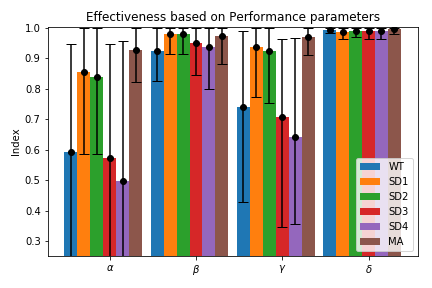
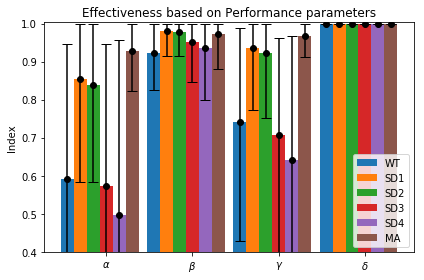
cv.commit

Changed region(s): [[0.0, 0.0286, 0.9811, 0.9714]]

diff --git a/Watershed/MAIN_V3.py b/Watershed/MAIN_V3.py
@@ -45,7 +45,7 @@ K = [Jurgen / 10, 2]  # if random: number of picks in folder, seed
 Name = "Tape_B"
 Tape = "Cropped"  # Large, Cropped, none=smalls
 
-Detail = [["draw", "print", "save"], 250]  # draw/print/save, substep Dt
+Detail = [["", "", "save"], 250]  # draw/print/save, substep Dt
 
 Compute = ["", "", "CP", "PL"]  # WT,CV,CP,"PL"
 
@@ -57,7 +57,7 @@ WT_Parameters = [3, [0.3, 1.5, 1.5], [10, 15, 2], 3, "exact", ""]  # Radius, Rel
 
 CV = [""]  # CROP, TIFtoCSV
 
-CP_Parameters = [0.7, 0.7, "M"]  # cutoff
+CP_Parameters = [0.7, 0.7, ""]  # cutoff
 CP_GroundTruth = "Annotated/Ground Truth/"  # sub-folder
 CP_Algorithms = [  # chosen algos
     "Watershed",

diff --git a/Watershed/FUNCTIONS_V3.py b/Watershed/FUNCTIONS_V3.py
@@ -907,9 +907,10 @@ def PLOT_BAR(Data, Algo, Title, Labels, Range, Save):
     ax.legend()
     fig.tight_layout()
     plt.ylim(Range[0], Range[1])
-
+    
     if "Plot" in Save:
-        plt.savefig((Title + "_BAR"))
+        plt.savefig((Title + "_BAR"),bbox_inches='tight')
+    plt.show()
 
 
 def PLOT_BOX(Data, Algo, Met, Lab, Title, Save):
@@ -963,7 +964,8 @@ def PLOT_BOX(Data, Algo, Met, Lab, Title, Save):
         title = Title + Met[m]
         plt.title(title)
         if "Plot" in Save:
-            plt.savefig(title + "_BOX")
+            plt.savefig(title + "_BOX",bbox_inches='tight')
+        plt.show()
 
         m += 1
 
